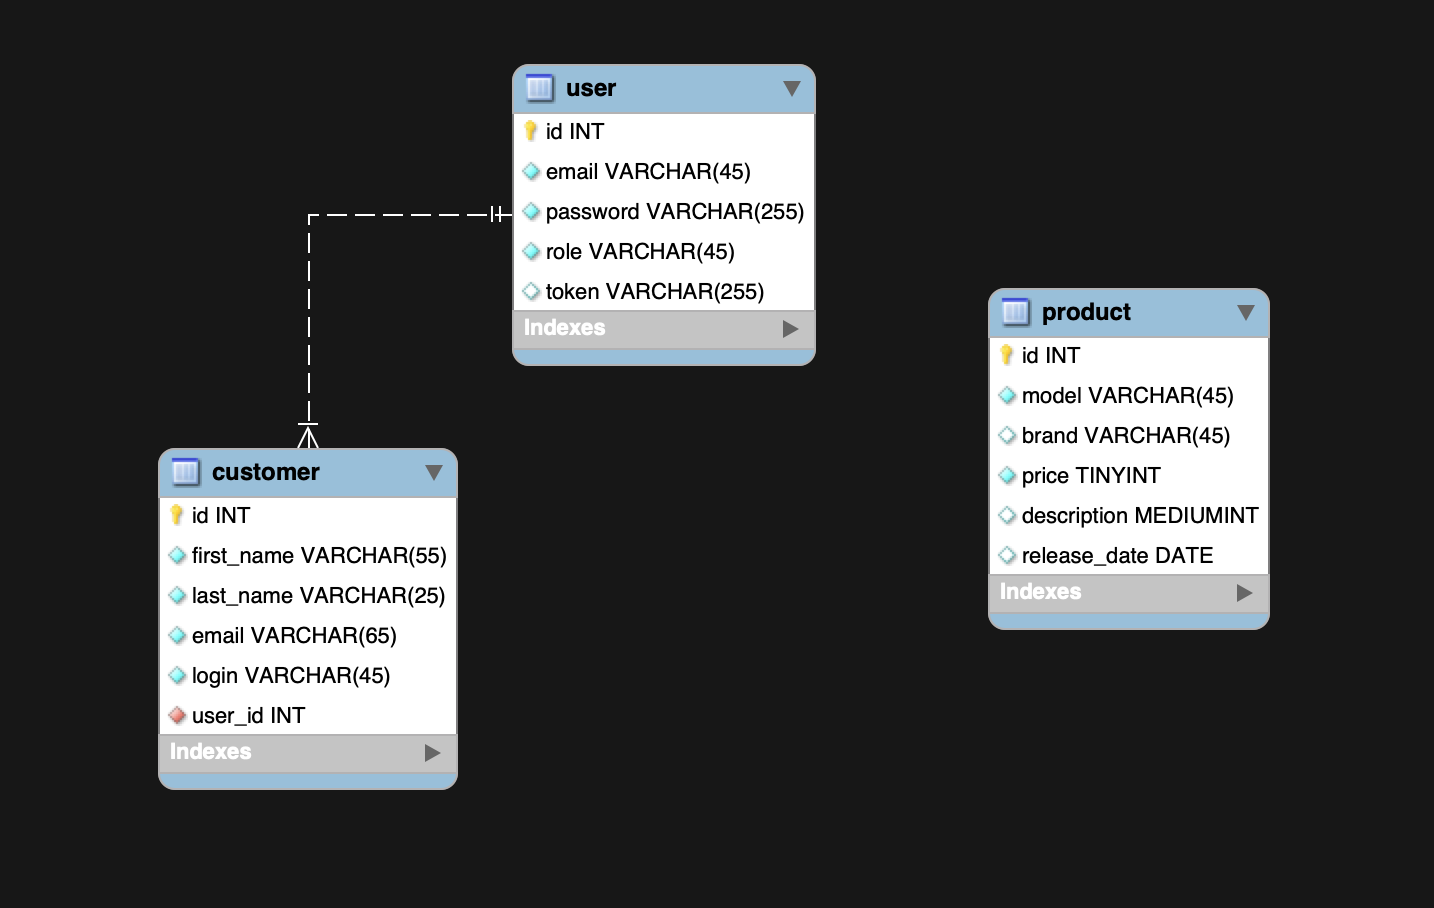
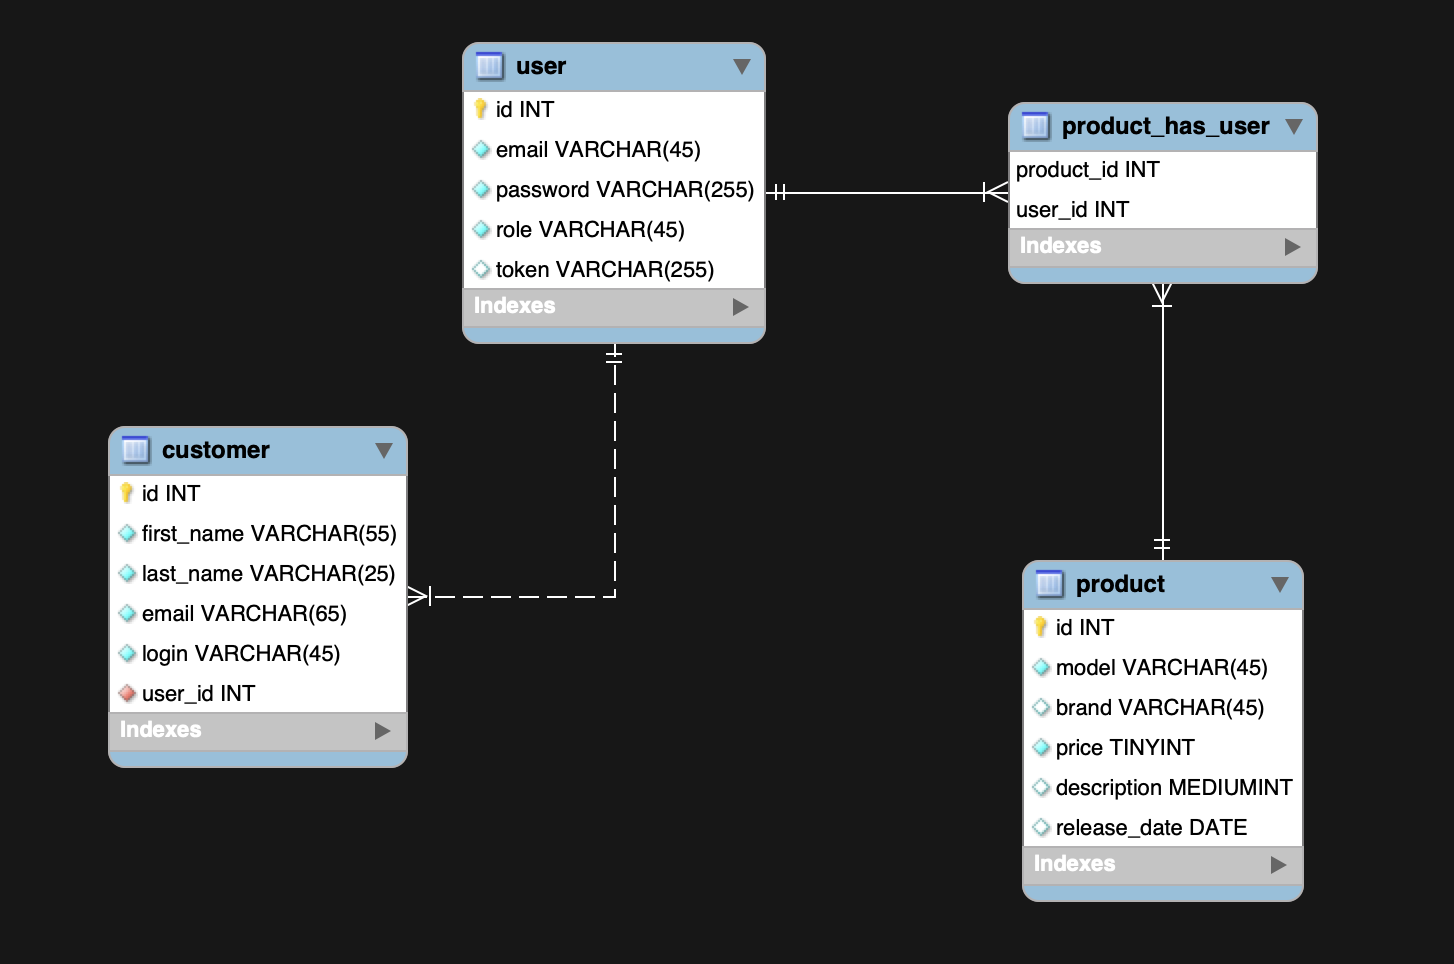
Delete use of a function in CustomerController class
Model refactoring

Changed region(s): [[0.3068, 0.0308, 0.9205, 0.9559], [0.0614, 0.4317, 0.3375, 0.8943]]

diff --git a/src/Migrations/Version20200607230009.php b/src/Migrations/Version20200607230009.php
@@ -10,7 +10,7 @@ use Doctrine\Migrations\AbstractMigration;
 /**
  * Auto-generated Migration: Please modify to your needs!
  */
-final class Version20200524233016 extends AbstractMigration
+final class Version20200607230009 extends AbstractMigration
 {
     public function getDescription() : string
     {
@@ -23,8 +23,12 @@ final class Version20200524233016 extends AbstractMigration
         $this->abortIf($this->connection->getDatabasePlatform()->getName() !== 'mysql', 'Migration can only be executed safely on \'mysql\'.');
 
         $this->addSql('CREATE TABLE product (id INT AUTO_INCREMENT NOT NULL, model VARCHAR(255) NOT NULL, brand VARCHAR(255) NOT NULL, price INT NOT NULL, description LONGTEXT NOT NULL, release_date DATE NOT NULL, PRIMARY KEY(id)) DEFAULT CHARACTER SET utf8mb4 COLLATE `utf8mb4_unicode_ci` ENGINE = InnoDB');
+        $this->addSql('CREATE TABLE product_user (product_id INT NOT NULL, user_id INT NOT NULL, INDEX IDX_7BF4E84584665A (product_id), INDEX IDX_7BF4E8A76ED395 (user_id), PRIMARY KEY(product_id, user_id)) DEFAULT CHARACTER SET utf8mb4 COLLATE `utf8mb4_unicode_ci` ENGINE = InnoDB');
         $this->addSql('CREATE TABLE user (id INT AUTO_INCREMENT NOT NULL, email VARCHAR(180) NOT NULL, roles JSON NOT NULL, password VARCHAR(255) NOT NULL, UNIQUE INDEX UNIQ_8D93D649E7927C74 (email), PRIMARY KEY(id)) DEFAULT CHARACTER SET utf8mb4 COLLATE `utf8mb4_unicode_ci` ENGINE = InnoDB');
-        $this->addSql('CREATE TABLE customer (id INT AUTO_INCREMENT NOT NULL, first_name VARCHAR(255) NOT NULL, last_name VARCHAR(255) NOT NULL, email VARCHAR(255) NOT NULL, login VARCHAR(255) DEFAULT NULL, PRIMARY KEY(id)) DEFAULT CHARACTER SET utf8mb4 COLLATE `utf8mb4_unicode_ci` ENGINE = InnoDB');
+        $this->addSql('CREATE TABLE customer (id INT AUTO_INCREMENT NOT NULL, user_id INT NOT NULL, first_name VARCHAR(255) NOT NULL, last_name VARCHAR(255) NOT NULL, email VARCHAR(255) NOT NULL, login VARCHAR(255) DEFAULT NULL, INDEX IDX_81398E09A76ED395 (user_id), PRIMARY KEY(id)) DEFAULT CHARACTER SET utf8mb4 COLLATE `utf8mb4_unicode_ci` ENGINE = InnoDB');
+        $this->addSql('ALTER TABLE product_user ADD CONSTRAINT FK_7BF4E84584665A FOREIGN KEY (product_id) REFERENCES product (id) ON DELETE CASCADE');
+        $this->addSql('ALTER TABLE product_user ADD CONSTRAINT FK_7BF4E8A76ED395 FOREIGN KEY (user_id) REFERENCES user (id) ON DELETE CASCADE');
+        $this->addSql('ALTER TABLE customer ADD CONSTRAINT FK_81398E09A76ED395 FOREIGN KEY (user_id) REFERENCES user (id)');
     }
 
     public function down(Schema $schema) : void
@@ -32,7 +36,11 @@ final class Version20200524233016 extends AbstractMigration
         // this down() migration is auto-generated, please modify it to your needs
         $this->abortIf($this->connection->getDatabasePlatform()->getName() !== 'mysql', 'Migration can only be executed safely on \'mysql\'.');
 
+        $this->addSql('ALTER TABLE product_user DROP FOREIGN KEY FK_7BF4E84584665A');
+        $this->addSql('ALTER TABLE product_user DROP FOREIGN KEY FK_7BF4E8A76ED395');
+        $this->addSql('ALTER TABLE customer DROP FOREIGN KEY FK_81398E09A76ED395');
         $this->addSql('DROP TABLE product');
+        $this->addSql('DROP TABLE product_user');
         $this->addSql('DROP TABLE user');
         $this->addSql('DROP TABLE customer');
     }

diff --git a/src/Controller/CustomerController.php b/src/Controller/CustomerController.php
@@ -7,7 +7,6 @@ use App\Repository\CustomerRepository;
 use App\Service\CacheDeleter;
 use Doctrine\ORM\EntityManagerInterface;
 use FOS\RestBundle\Controller\Annotations as Rest;
-use JMS\Serializer\ArrayTransformerInterface;
 use Knp\Component\Pager\PaginatorInterface;
 use Sensio\Bundle\FrameworkExtraBundle\Configuration\ParamConverter;
 use Sensio\Bundle\FrameworkExtraBundle\Configuration\Security;
@@ -19,6 +18,7 @@ use Symfony\Component\Validator\Validator\ValidatorInterface;
 use Symfony\Contracts\Cache\CacheInterface;
 use Symfony\Contracts\Cache\ItemInterface;
 use Swagger\Annotations as OA;
+use function ucfirst;
 
 /**
  * Class CustomerController
@@ -176,23 +176,19 @@ class CustomerController extends AbstractController
     }
 
     /**
-     * @param Customer $customer
      * @param EntityManagerInterface $manager
      * @param ValidatorInterface $validator
      * @param Request $request
-     * @param ArrayTransformerInterface $arrayTransformer
      * @param CacheInterface $cache
      * @return object|null
      * @throws \Psr\Cache\InvalidArgumentException
      *
      * @Rest\Put(
      *     path="/{id}",
-     *     name="customer_update"
+     *     name="customer_update",
+     *     requirements={"id"="\d+"}
      * )
      * @Rest\View(statusCode= 200)
-     * @ParamConverter("customer", converter="fos_rest.request_body")
-     *
-     * @Security("is_granted('ROLE_USER') && customer.getUser() == user")
      *
      * @OA\Put(
      *     @OA\Response(response="200", description="Update a specific customer")
@@ -204,20 +200,17 @@ class CustomerController extends AbstractController
      *     description="The id of the customer"
      * )
      */
-    public function updateCustomer(Customer $customer, EntityManagerInterface $manager, ValidatorInterface $validator,
-                                   Request $request, ArrayTransformerInterface $arrayTransformer, CacheInterface $cache,
-                                   CacheDeleter $cacheDeleter)
+    public function updateCustomer(EntityManagerInterface $manager, ValidatorInterface $validator,
+                                   Request $request, CacheInterface $cache, CacheDeleter $cacheDeleter)
     {
         $customerUpdater = $manager->getRepository(Customer::class)->find($request->get('id'));
 
         // Check if some values have changed and set them in existing object
-        $customer = $arrayTransformer->toArray($customer);
-        foreach ($customer  as $key => $value) {
+        foreach($request->request->all() as $key => $value ) {
             if($key && !empty($value)) {
                 $keyPiece = explode('_', $key);
                 foreach ($keyPiece as $index => $piece) {
-                    $piece = ucfirst($piece);
-                    $keyPiece[$index] = $piece;
+                    $keyPiece[$index] = ucfirst($piece);
                 }
                 $setter = 'set'.implode($keyPiece);
                 $customerUpdater->$setter($value);

diff --git a/src/Entity/Product.php b/src/Entity/Product.php
@@ -3,6 +3,8 @@
 namespace App\Entity;
 
 use App\Repository\ProductRepository;
+use Doctrine\Common\Collections\ArrayCollection;
+use Doctrine\Common\Collections\Collection;
 use Doctrine\ORM\Mapping as ORM;
 use JMS\Serializer\Annotation as Serializer;
 use Symfony\Component\Validator\Constraints as Assert;
@@ -10,6 +12,8 @@ use Hateoas\Configuration\Annotation as Hateoas;
 
 /**
  * @ORM\Entity(repositoryClass=ProductRepository::class)
+ *
+ * @Serializer\ExclusionPolicy("All")
  *
  * @Hateoas\Relation(
  *      "self",
@@ -30,6 +34,7 @@ class Product
      * @ORM\Column(type="integer")
      * @Serializer\Groups({"list", "detail"})
      *
+     * @Serializer\Expose
      */
     private $id;
 
@@ -39,6 +44,7 @@ class Product
      * @Assert\NotBlank()
      * @Assert\Length(max="25", maxMessage="Too much caracters for model name")
      *
+     * @Serializer\Expose
      */
     private $model;
 
@@ -47,6 +53,8 @@ class Product
      * @Serializer\Groups({"list", "detail"})
      * @Assert\NotBlank()
      * @Assert\Length(max="25", maxMessage="Too much caracters for brand name")
+     *
+     * @Serializer\Expose
      */
     private $brand;
 
@@ -55,6 +63,8 @@ class Product
      * @Serializer\Groups({"list", "detail"})
      * @Assert\NotBlank()
      * @Assert\Range(min="0")
+     *
+     * @Serializer\Expose
      */
     private $price;
 
@@ -68,8 +78,22 @@ class Product
     /**
      * @ORM\Column(type="date")
      * @Serializer\Groups({"detail"})
+     *
+     * @Serializer\Expose
      */
     private $releaseDate;
+
+    /**
+     * @ORM\ManyToMany(targetEntity=User::class, inversedBy="products")
+     * @ORM\JoinColumn(nullable=false)
+     * @ORM\JoinTable(name="product_user")
+     */
+    private $users;
+
+    public function __construct()
+    {
+        $this->users = new ArrayCollection();
+    }
 
     public function getId(): ?int
     {
@@ -135,4 +159,31 @@ class Product
 
         return $this;
     }
+
+    /**
+     * @return Collection|User[]
+     */
+    public function getUsers(): Collection
+    {
+        return $this->users;
+    }
+
+    public function addUser(User $user): self
+    {
+        if (!$this->users->contains($user)) {
+            $this->users[] = $user;
+        }
+
+        return $this;
+    }
+
+    public function removeUser(User $user): self
+    {
+        if ($this->users->contains($user)) {
+            $this->users->removeElement($user);
+        }
+
+        return $this;
+    }
+
 }

diff --git a/src/DataFixtures/AppFixtures.php b/src/DataFixtures/AppFixtures.php
@@ -20,17 +20,6 @@ class AppFixtures extends Fixture
 
     public function load(ObjectManager $manager)
     {
-        foreach ($this->productData() as $aProductArray) {
-            $product = new Product();
-            $product->setBrand($aProductArray["brand"])
-                ->setModel($aProductArray["model"])
-                ->setPrice($aProductArray["price"])
-                ->setDescription($aProductArray["description"])
-                ->setReleaseDate(new \DateTime($aProductArray["releaseDate"]))
-            ;
-            $manager->persist($product);
-        }
-
         foreach ($this->userData() as $aUserArray) {
             $user = new User();
             $password = $this->encoder->encodePassword($user, $aUserArray["password"]);
@@ -39,6 +28,18 @@ class AppFixtures extends Fixture
                  ->setPassword($password)
             ;
             $manager->persist($user);
+        }
+
+        foreach ($this->productData() as $aProductArray) {
+            $product = new Product();
+            $product->setBrand($aProductArray["brand"])
+                ->setModel($aProductArray["model"])
+                ->setPrice($aProductArray["price"])
+                ->setDescription($aProductArray["description"])
+                ->setReleaseDate(new \DateTime($aProductArray["releaseDate"]))
+                ->addUser($user)
+            ;
+            $manager->persist($product);
         }
 
         foreach ($this->customerData() as $aCustomArray) {

diff --git a/src/Controller/ProductController.php b/src/Controller/ProductController.php
@@ -2,9 +2,11 @@
 
 namespace App\Controller;
 
+use App\Entity\Product;
 use App\Repository\ProductRepository;
 use FOS\RestBundle\Controller\Annotations as Rest;
 use Knp\Component\Pager\PaginatorInterface;
+use Sensio\Bundle\FrameworkExtraBundle\Configuration\Security;
 use Symfony\Bundle\FrameworkBundle\Controller\AbstractController;
 use Symfony\Component\HttpFoundation\Request;
 use Symfony\Component\Routing\Annotation\Route;
@@ -55,7 +57,7 @@ class ProductController extends AbstractController
                              use ($page) {
             $item->expiresAfter(3600);
 
-            $query = $this->repo->allProductsQuery();
+            $query = $this->repo->allProductsQuery($this->getUser());
 
             return  $paginatedProducts = $this->paginate->paginate(
                     $query,
@@ -89,8 +91,10 @@ class ProductController extends AbstractController
      *     type="number",
      *     description="The id of the product"
      * )
+     *
+     * @Security("is_granted('ROLE_USER') && user == product.getUsers().first()")
      */
-    public function aProduct($id, CacheInterface $cache)
+    public function aProduct($id, CacheInterface $cache, Product $product)
     {
         return $cache->get('product'.$id, function (ItemInterface $item) use ($id) {
             $item->expiresAfter(3600);

diff --git a/src/Entity/User.php b/src/Entity/User.php
@@ -52,9 +52,15 @@ class User implements UserInterface
      */
     private $customers;
 
+    /**
+     * @ORM\ManyToMany(targetEntity=Product::class, mappedBy="users")
+     */
+    private $products;
+
     public function __construct()
     {
         $this->customers = new ArrayCollection();
+        $this->products = new ArrayCollection();
     }
 
     public function getId(): ?int
@@ -161,6 +167,34 @@ class User implements UserInterface
             if ($customer->getUser() === $this) {
                 $customer->setUser(null);
             }
+        }
+
+        return $this;
+    }
+
+    /**
+     * @return Collection|Product[]
+     */
+    public function getProducts(): Collection
+    {
+        return $this->products;
+    }
+
+    public function addProduct(Product $product): self
+    {
+        if (!$this->products->contains($product)) {
+            $this->products[] = $product;
+            $product->addUser($this);
+        }
+
+        return $this;
+    }
+
+    public function removeProduct(Product $product): self
+    {
+        if ($this->products->contains($product)) {
+            $this->products->removeElement($product);
+            $product->removeUser($this);
         }
 
         return $this;

diff --git a/src/Repository/ProductRepository.php b/src/Repository/ProductRepository.php
@@ -5,6 +5,8 @@ namespace App\Repository;
 use App\Entity\Product;
 use Doctrine\Bundle\DoctrineBundle\Repository\ServiceEntityRepository;
 use Doctrine\Persistence\ManagerRegistry;
+use App\Entity\User;
+use Symfony\Component\Security\Core\User\UserInterface;
 
 /**
  * @method Product|null find($id, $lockMode = null, $lockVersion = null)
@@ -19,9 +21,15 @@ class ProductRepository extends ServiceEntityRepository
         parent::__construct($registry, Product::class);
     }
 
-    public function allProductsQuery()
+    /**
+     * @param User $user
+     * @return \Doctrine\ORM\Query
+     */
+    public function allProductsQuery(UserInterface $user)
     {
         return $this->createQueryBuilder('p')
+            ->where( ':userId MEMBER OF p.users')
+            ->setParameter('userId', $user->getId())
             ->orderBy('p.id', 'ASC')
             ->getQuery()
             ;
